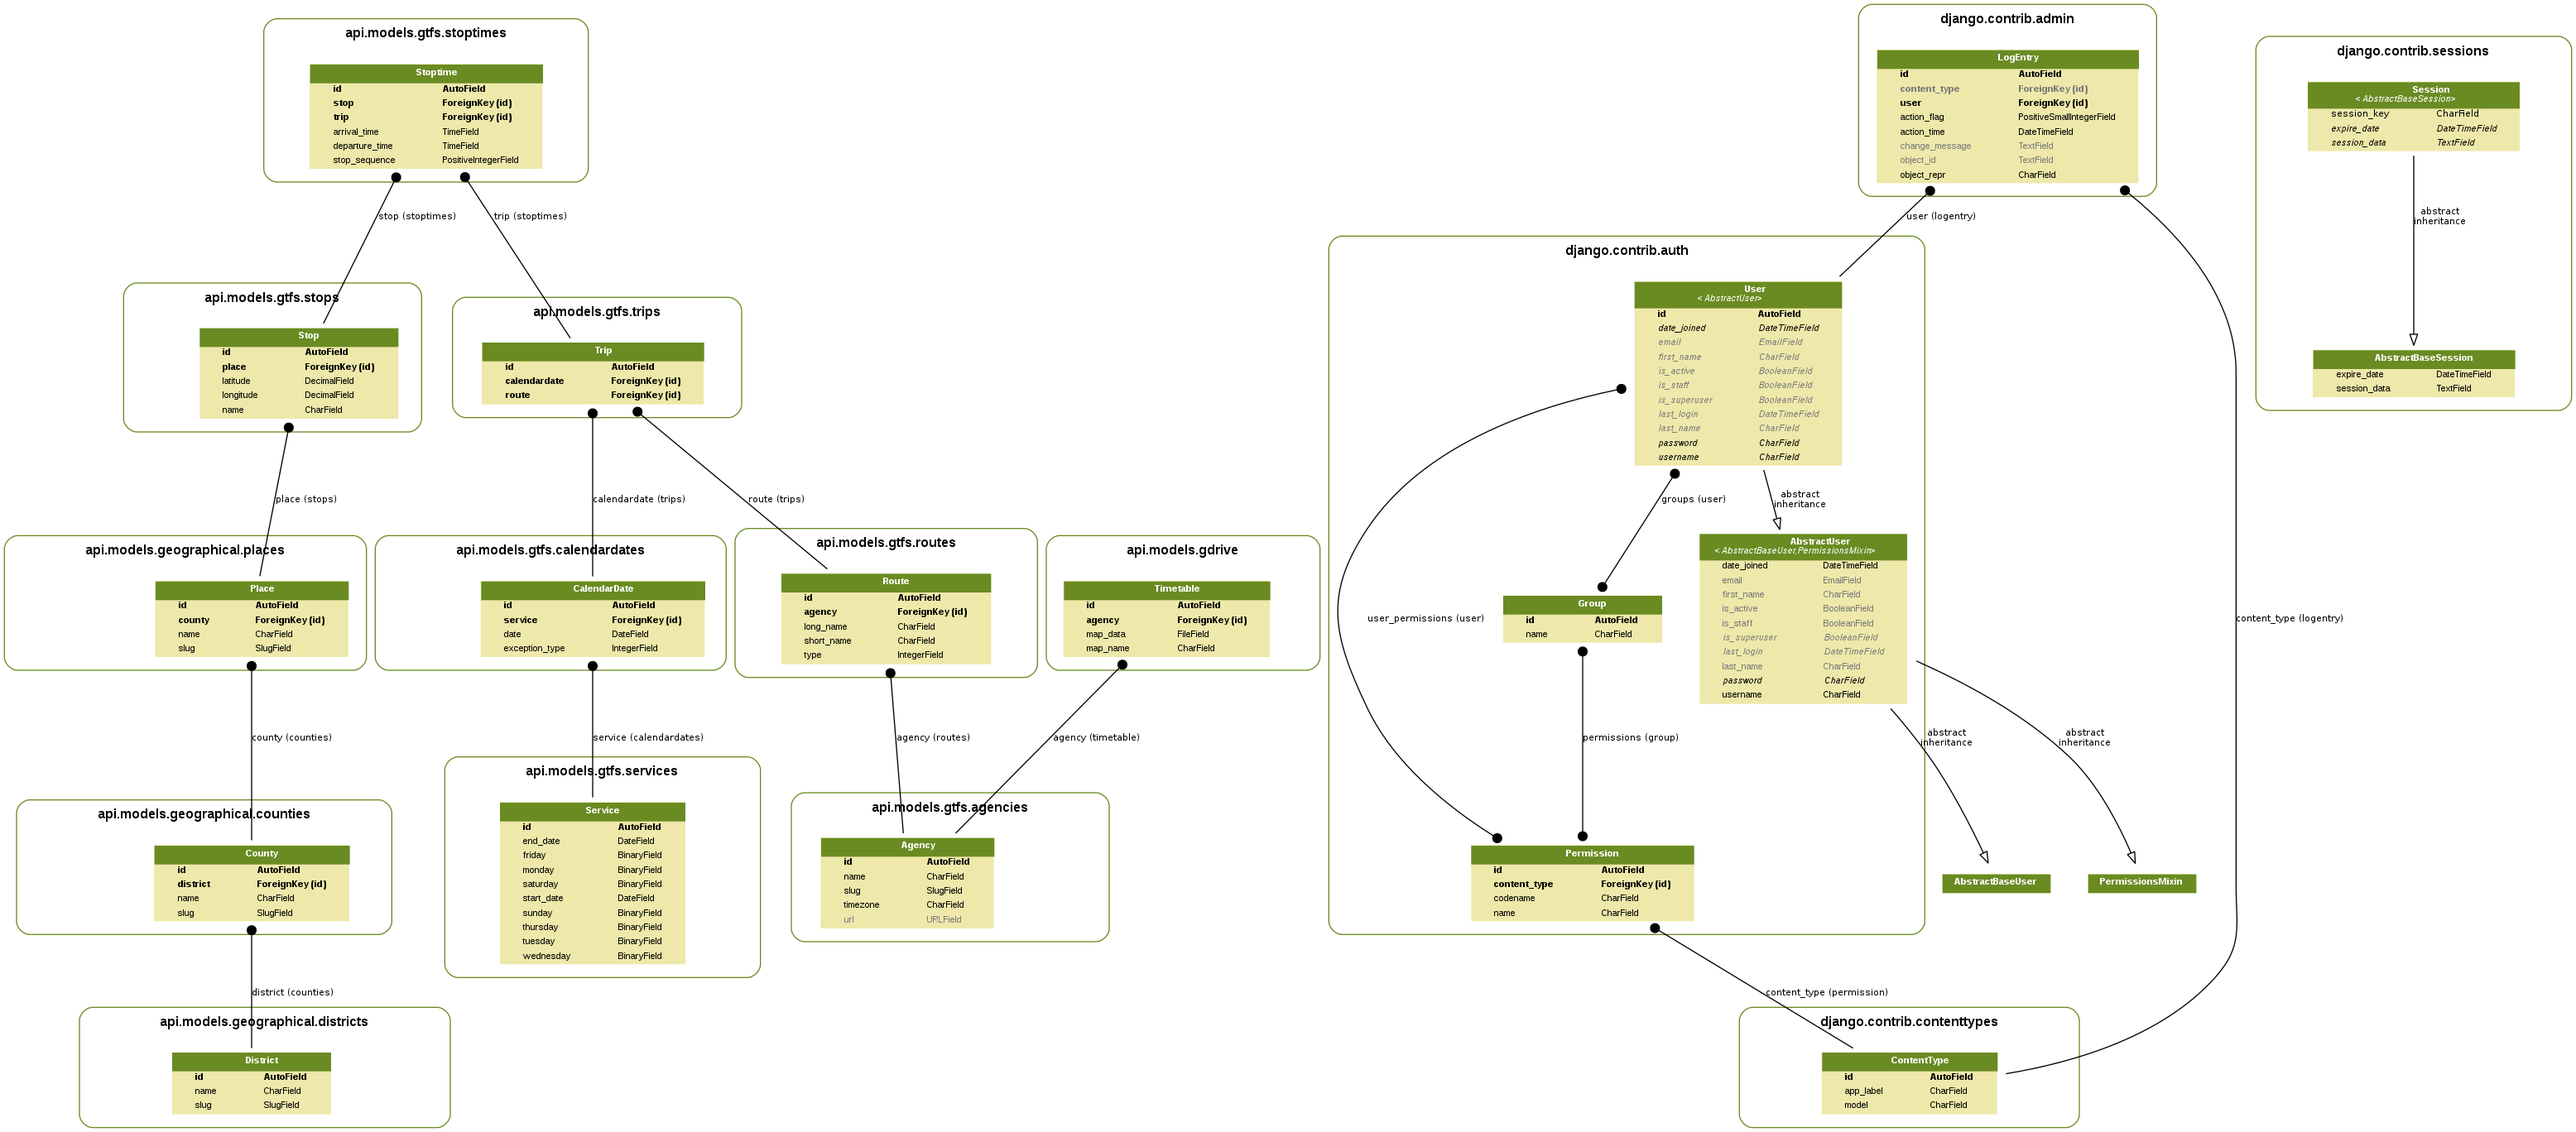
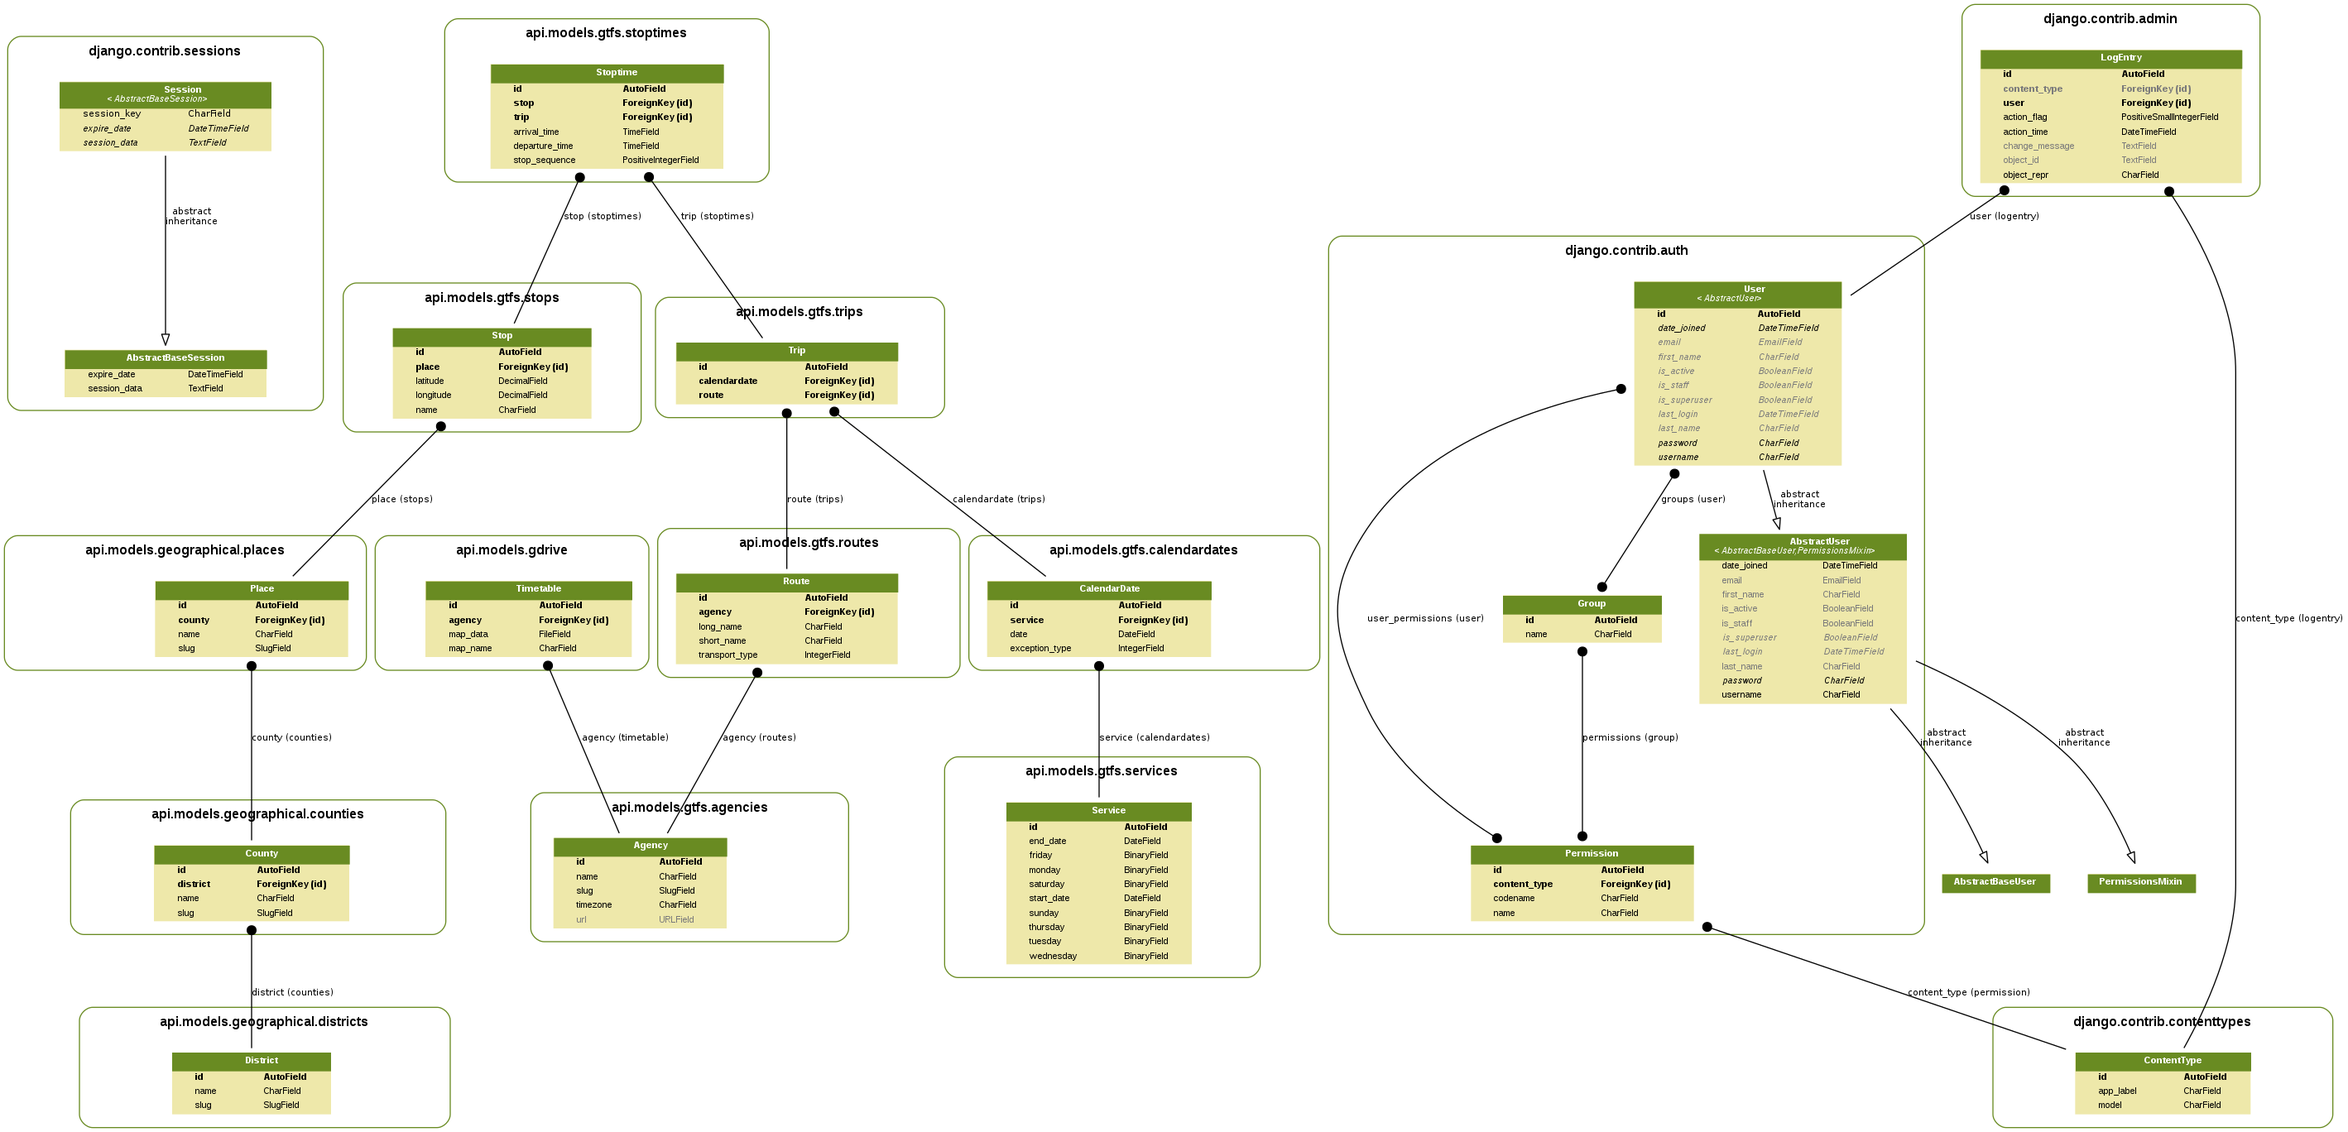
Rename type field from routes model to transport_type

diff --git a/api/models/gtfs/routes/schema.py b/api/models/gtfs/routes/schema.py
@@ -14,7 +14,7 @@ class Query(object):
                            id=graphene.Int(),
                            short_name=graphene.String(),
                            long_name=graphene.String(),
-                           type=graphene.Int(),
+                           transport_type=graphene.Int(),
                            agency__slug=graphene.String())
 
     routes = graphene.List(RouteType)
@@ -23,7 +23,7 @@ class Query(object):
         id = kwargs.get('id')
         short_name = kwargs.get('short_name')
         long_name = kwargs.get('long_name')
-        transport_type = kwargs.get('type')
+        transport_type = kwargs.get('transport_type')
         agency_slug = kwargs.get('agency__slug')
 
         if id is not None:
@@ -36,7 +36,7 @@ class Query(object):
             return Route.objects.get(long_name=long_name)
 
         if transport_type is not None:
-            return Route.objects.get(type=transport_type)
+            return Route.objects.get(transport_type=transport_type)
 
         if agency_slug is not None:
             return Route.objects.get(agency__slug=agency_slug)

diff --git a/api/models/gtfs/routes/models.py b/api/models/gtfs/routes/models.py
@@ -24,7 +24,7 @@ class Route(models.Model):
 
     short_name = CharField(max_length=20, help_text="O campo de nome deve conter o nome curto da rota.")
     long_name = CharField(max_length=255, help_text="O campo de nome deve conter o nome longo da rota.")
-    type = IntegerField(help_text="O tipo de transporte usado na rota", choices=TYPES)
+    transport_type = IntegerField(help_text="O tipo de transporte usado na rota", choices=TYPES)
     agency = ForeignKey(Agency, models.DO_NOTHING, related_name='routes')
 
     def __str__(self):

diff --git a/api/models/gtfs/routes/migrations/0002_auto_20180217_0146.py b/api/models/gtfs/routes/migrations/0002_auto_20180217_0146.py
@@ -1,0 +1,18 @@
+# Generated by Django 2.0 on 2018-02-17 01:46
+
+from django.db import migrations
+
+
+class Migration(migrations.Migration):
+
+    dependencies = [
+        ('routes', '0001_initial'),
+    ]
+
+    operations = [
+        migrations.RenameField(
+            model_name='route',
+            old_name='type',
+            new_name='transport_type',
+        ),
+    ]

diff --git a/api/models/gtfs/routes/admin.py b/api/models/gtfs/routes/admin.py
@@ -5,4 +5,4 @@ from .models import Route
 
 @admin.register(Route)
 class RouteAdmin(admin.ModelAdmin):
-    list_display = ['short_name', 'long_name', 'type', 'agency']
+    list_display = ['short_name', 'long_name', 'transport_type', 'agency']
